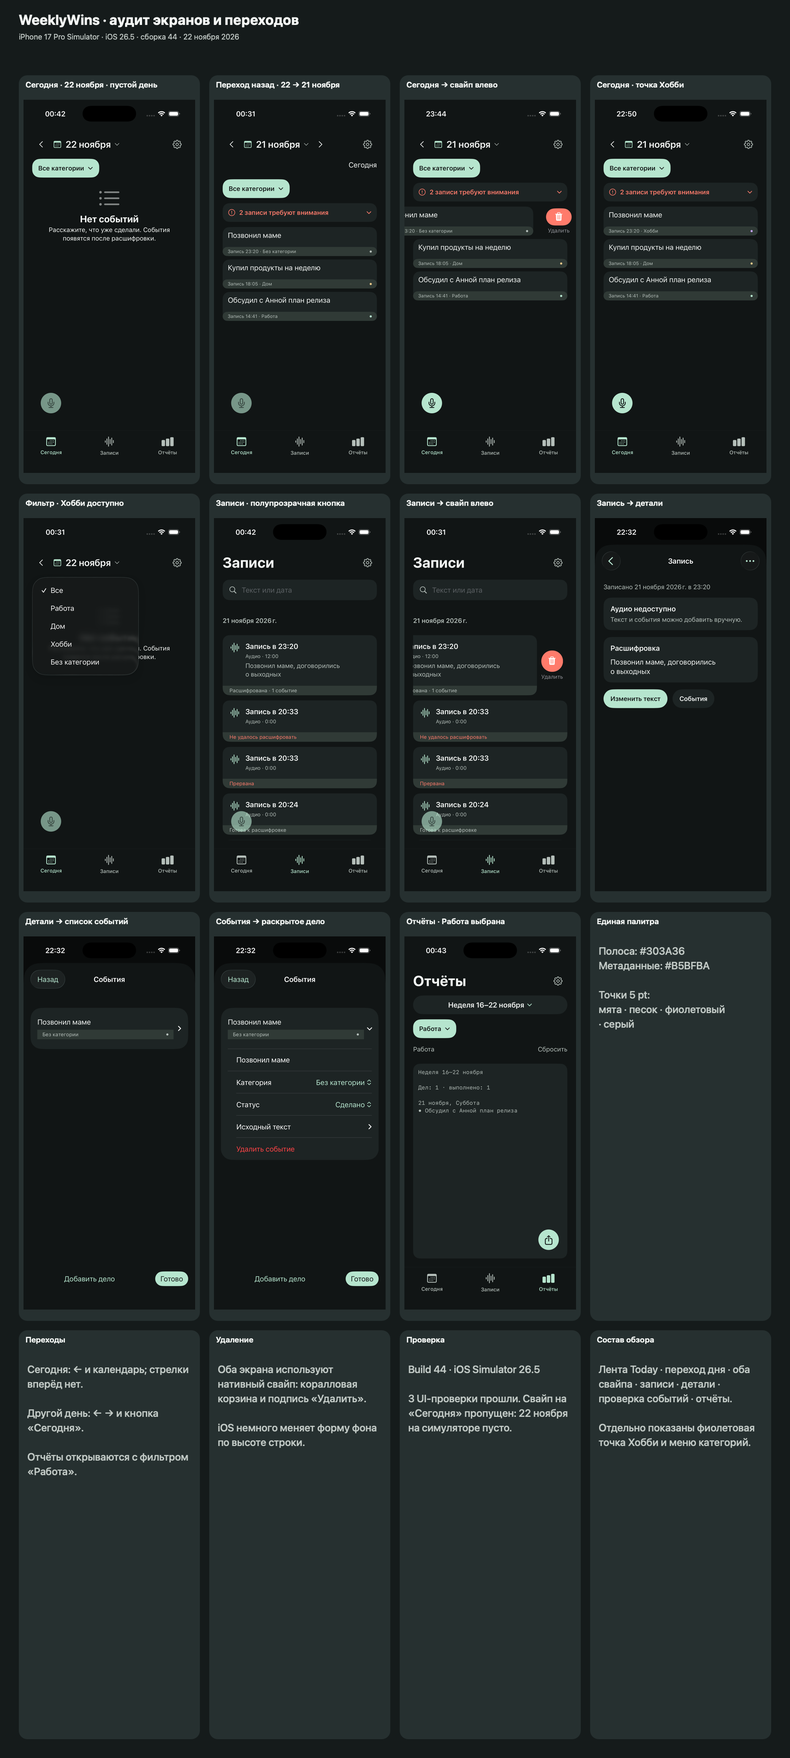
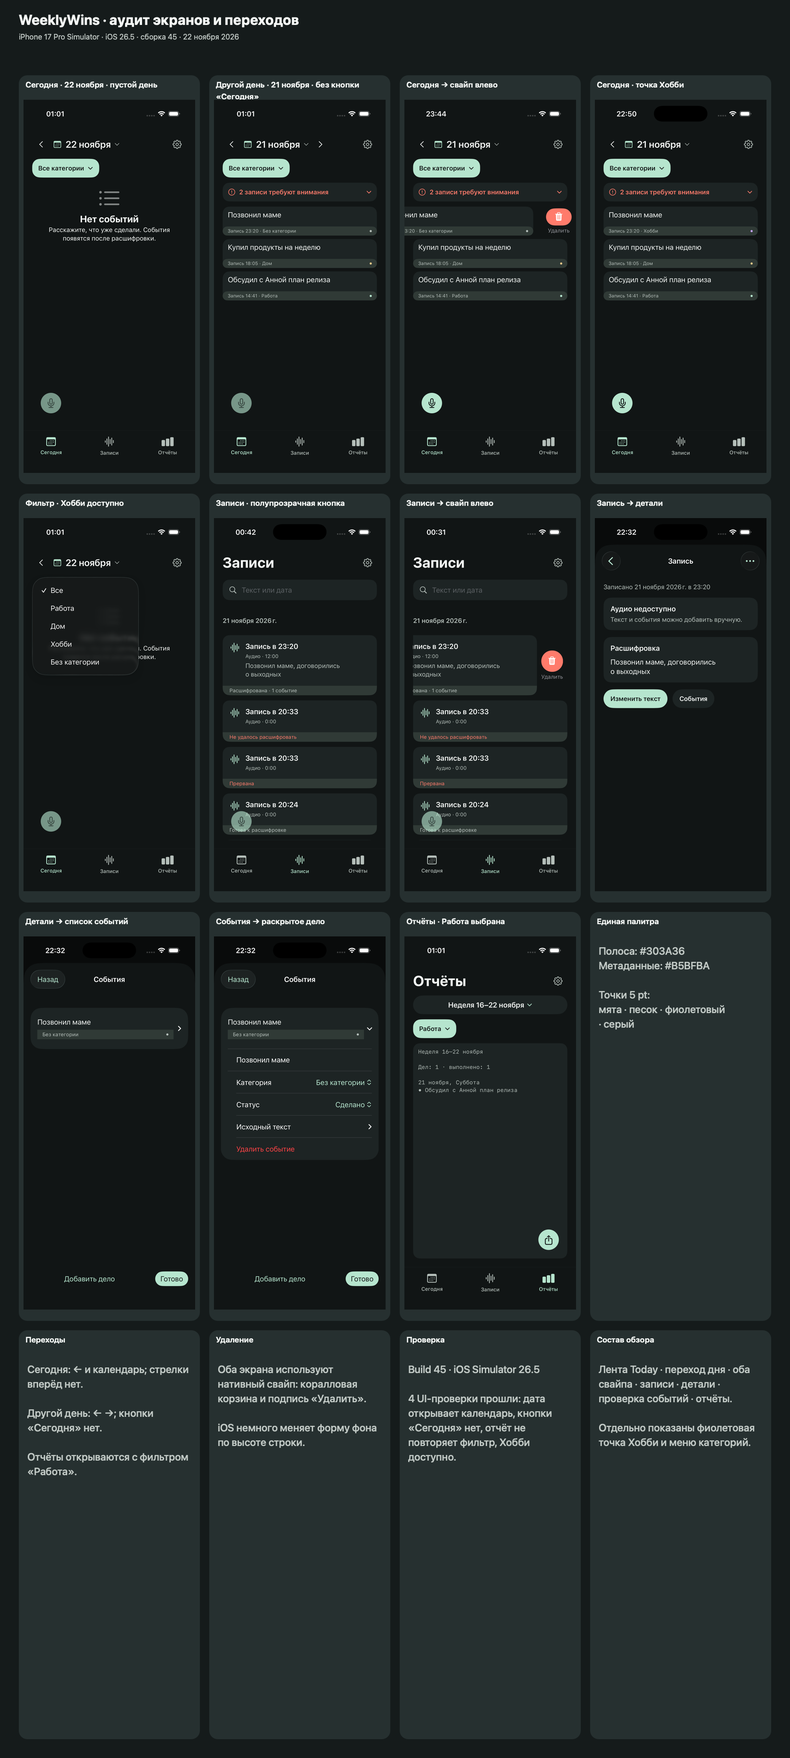
fix: simplify today and report filters

diff --git a/WeeklyWinsActionButtonUITests/ActionButtonUITests.swift b/WeeklyWinsActionButtonUITests/ActionButtonUITests.swift
@@ -27,10 +27,39 @@ final class ActionButtonUITests: XCTestCase {
         XCTAssertTrue(app.staticTexts[expectedPreviousDate].waitForExistence(timeout: 5), app.debugDescription)
         let settingsDone = app.buttons["Готово"]
         if settingsDone.isHittable { settingsDone.tap() }
+        XCTAssertFalse(app.buttons["return-to-today"].exists, app.debugDescription)
         attach("A03-final-previous-day")
         app.buttons["studio-tab-2"].tap()
         XCTAssertTrue(app.staticTexts["Отчёты"].waitForExistence(timeout: 5))
         attach("A14-final-reports-work-filter")
+    }
+
+    @MainActor
+    func testTodayDateOpensDatePickerInsteadOfSettings() throws {
+        continueAfterFailure = false
+        let app = XCUIApplication(bundleIdentifier: "com.weeklywins.app")
+        app.launch()
+
+        let dayPicker = app.buttons["Выбрать день"]
+        XCTAssertTrue(dayPicker.waitForExistence(timeout: 5), app.debugDescription)
+        dayPicker.tap()
+
+        XCTAssertTrue(app.staticTexts["Выбор даты"].waitForExistence(timeout: 5), app.debugDescription)
+        XCTAssertFalse(app.staticTexts["Настройки"].exists, app.debugDescription)
+    }
+
+    @MainActor
+    func testReportsDoNotRepeatSelectedCategoryBelowFilter() throws {
+        continueAfterFailure = false
+        let app = XCUIApplication(bundleIdentifier: "com.weeklywins.app")
+        app.launch()
+        app.buttons["studio-tab-2"].tap()
+
+        let category = app.buttons["Категория"]
+        XCTAssertTrue(category.waitForExistence(timeout: 5), app.debugDescription)
+        XCTAssertEqual(category.value as? String, "Работа", app.debugDescription)
+        XCTAssertFalse(app.buttons["reset-category-filter"].exists, app.debugDescription)
+        XCTAssertFalse(app.otherElements["selected-category-summary"].exists, app.debugDescription)
     }
 
     @MainActor
@@ -286,7 +315,7 @@ final class ActionButtonUITests: XCTestCase {
         XCTAssertTrue(app.staticTexts["Нет дел в этой категории"].waitForExistence(timeout: 5))
         app.buttons["reset-category-filter"].tap()
         XCTAssertTrue(app.staticTexts["В этот день нет событий"].waitForExistence(timeout: 5))
-        app.buttons["return-to-today"].tap()
+        app.buttons[offset < 0 ? "Следующий день" : "Предыдущий день"].tap()
         app.buttons["Открыть аудио: Подготовил отчёт"].tap()
         XCTAssertTrue(app.buttons["Прослушать"].waitForExistence(timeout: 5))
         app.buttons["recording-details-back"].tap()
@@ -1060,7 +1089,7 @@ final class ActionButtonUITests: XCTestCase {
         XCTAssertEqual(datePicker.value as? String, selectedLabel)
         let card = app.buttons.matching(NSPredicate(format: "label BEGINSWITH %@", title)).firstMatch
         XCTAssertFalse(card.exists)
-        app.buttons["return-to-today"].tap()
+        inward.tap()
         XCTAssertEqual(datePicker.value as? String, todayLabel)
         for _ in 0..<32 {
             if card.exists { break }

diff --git a/WeeklyWins/Reports/ReportView.swift b/WeeklyWins/Reports/ReportView.swift
@@ -127,7 +127,7 @@ struct ReportView: View {
             }
             periodMenu
             if choice == .custom { customRangePickers }
-            CategoryFilter(category: $category, compact: true)
+            CategoryFilter(category: $category, compact: true, showsSelectedCategorySummary: false)
             if items.isEmpty {
                 ContentUnavailableView("За этот период нет событий", systemImage: "chart.bar")
                     .frame(maxWidth: .infinity, maxHeight: .infinity)
@@ -353,17 +353,6 @@ struct ReportView: View {
                 }
                 Spacer(minLength: 0)
                 SettingsButton()
-            }
-            if !Calendar.current.isDateInToday(date) {
-                HStack {
-                    Spacer(minLength: 0)
-                    Button("Сегодня") {
-                        followsToday = true
-                        date = .now
-                    }
-                    .frame(minHeight: 44)
-                    .accessibilityIdentifier("return-to-today")
-                }
             }
         }
     }

diff --git a/WeeklyWins/Design/StudioTheme.swift b/WeeklyWins/Design/StudioTheme.swift
@@ -25,6 +25,7 @@ enum StudioTheme {
 struct CategoryFilter: View {
     @Binding var category: EventCategory?
     var compact = false
+    var showsSelectedCategorySummary = true
     private let categories: [EventCategory] = [.work, .home, .hobby, .unclassified]
 
     var body: some View {
@@ -40,7 +41,7 @@ struct CategoryFilter: View {
                     pills(spacing: 10, padding: 22)
                 }
             }
-            if let category {
+            if showsSelectedCategorySummary, let category {
                 HStack {
                     Text(category.title)
                         .accessibilityAddTraits(.isHeader)
@@ -51,6 +52,7 @@ struct CategoryFilter: View {
                 }
                 .font(.subheadline)
                 .foregroundStyle(StudioTheme.secondary)
+                .accessibilityIdentifier("selected-category-summary")
             }
         }
     }

diff --git a/docs/design/approved-design.md b/docs/design/approved-design.md
@@ -8,6 +8,8 @@
 21 ноября 2026 года пользователь утвердил единую нейтральную полосу с тихой точкой 5 pt справа для категории и единый вид удаления на ленте и в списке записей. На текущей дате стрелка вперёд скрыта.
 21 ноября 2026 года добавлена категория «Хобби» с мягким фиолетовым цветом `#C5A3FF`, отличным от категорий «Работа», «Дом», «Без категории» и кораллового статуса записи.
 22 ноября 2026 года пользователь уточнил вид кнопки записи: сохранить её плавающей на прежнем месте, сделать слегка прозрачной и не перекрывающей чтение текста под ней.
+22 ноября 2026 года кнопка «Сегодня» удалена с ленты, выбор даты проверен на открытие календаря, а подпись категории и «Сбросить» скрыты под фильтром отчётов.
+22 ноября 2026 года пользователь попросил убрать кнопку «Сегодня» с ленты, исправить выбор даты и убрать повтор подписи и сброса выбранной категории из отчётов.
 
 ## Источники реализации
 
@@ -20,13 +22,13 @@
 
 ### Сегодня и другой день
 
-- **Компактная дата.** В шапке календарь и стрелка предыдущего дня находятся слева от выбранной даты, стрелка следующего дня — справа от даты; затем справа настройки. На текущем дне стрелка вперёд скрыта. Дата открывает календарь и имеет область нажатия высотой не менее 44 pt. Название «Сегодня» видно на выбранной вкладке. На другом дне доступны обе стрелки и кнопка возврата к сегодняшней дате по A03.
+- **Компактная дата.** В шапке календарь и стрелка предыдущего дня находятся слева от выбранной даты, стрелка следующего дня — справа от даты; затем справа настройки. На текущем дне стрелка вперёд скрыта. Нажатие на дату открывает календарь и имеет область нажатия высотой не менее 44 pt. Название «Сегодня» видно на выбранной вкладке. Кнопки «Сегодня» в ленте нет; на другом дне доступны обе стрелки, переход вперёд возвращает к текущей дате.
 - **Текст внутри карточки.** Карточка занимает ширину ленты. Название набрано обычным начертанием. Под ним вторичная строка со временем записи и категорией, например «Запись 09:10 · Работа». Время дела и длительность не хранятся и не показываются. Вторичная строка мельче названия, масштабируется с системным текстом и может переноситься. У карточки есть отдельное действие открытия аудиоисточника.
 - **Цвет категории в карточке.** Строка метаданных находится на общей нейтральной плашке высотой около 21 pt; подпись метаданных использует вторичный текст. Справа на плашке стоит тихая точка 5 pt в цвете категории: мята для работы, песок для дома, фиолетовый для хобби, серый для дел без категории. Правая кнопка открытия аудио удалена; нажатие карточки открывает детали, где доступен аудиоисточник. Название категории остаётся в тексте.
 - **Карточки записей.** На экране «Записи» статус аудио находится на такой же нейтральной полосе снизу. Свайп влево показывает нативное деструктивное действие с корзиной и подписью «Удалить»; нажатие удаляет аудио, расшифровку и связанные события сразу.
 - **Удаление дела.** Свайп влево показывает такое же нативное деструктивное действие с корзиной и подписью «Удалить», как на экране «Записи». Нажатие удаляет дело из ленты и отчётов. Аудиоисточник остаётся доступен в деталях. Свайп вправо закрывает действие, а «Отменить удаление» возвращает дела по одному, начиная с последнего удаления.
 - **Ручной запуск записи.** Круглая мятная кнопка с микрофоном размером 48 × 48 pt закреплена слева поверх ленты и списка записей. Кнопка слегка прозрачная, чтобы не мешать читать расположенный под ней текст; при включённом «Уменьшении прозрачности» фон непрозрачный. Положение и высота области списка не меняются. Отступы от левого края и от верхней границы панели вкладок равны 20 pt. Подпись для VoiceOver — «Записать».
-- **Состояние при прокрутке.** Пока список движется, кнопка остаётся на месте, а фон круга становится полупрозрачным. Значок остаётся различимым, под кнопкой видно содержание карточки. Когда прокрутка останавливается, кнопка возвращается к непрозрачному состоянию примерно через 0,28 с. При активной записи действует компактная панель с таймером и остановкой.
+- **Состояние при прокрутке.** Кнопка остаётся плавающей на прежнем месте, её круг и значок слегка прозрачны, чтобы не затруднять чтение содержимого под ними. Пока список движется, фон становится ещё прозрачнее. При включённом «Уменьшении прозрачности» кнопка непрозрачная. При активной записи действует компактная панель с таймером и остановкой.
 
 ### Запись
 

diff --git a/docs/design/layout-options.md b/docs/design/layout-options.md
@@ -60,9 +60,9 @@
 | A10. Проверка событий | Список компактных предложений событий, у каждого видны текст и категория на общей нейтральной полосе. Справа полосы стоит тихая точка категории, как в ленте. Нажатие раскрывает редактор. Внизу «Добавить дело» и «Готово». Объединение доступно через выбор двух соседних событий. |
 | A11. Карточка события | Сверху текст дела и категория. Ниже время записи. Затем исходный фрагмент и ссылка на аудио. Действие «Изменить» открывает форму. |
 | A12. Редактор события | Сначала текст дела, затем категория и статус выполнения. Внизу «Сохранить», в меню — удалить. Клавиатура не перекрывает сохранение. |
-| A13. Отчёт за день | Вверху переключатель «День / Неделя / Месяц», ниже дата со стрелками. По умолчанию включён фильтр «Работа». Затем количество дел и выполненных. Ниже список событий. |
-| A14. Отчёт за неделю | Сохраняет расположение A13. По умолчанию выбран фильтр «Работа». Вместо даты — диапазон недели. После сводки расположен график по семи дням. Нажатие столбца открывает выбранный дневной отчёт. |
-| A15. Отчёт за месяц | Сохраняет расположение A13. В заголовке месяц и год. График по дням месяца прокручивается, либо отображается компактный календарь. Нажатие дня открывает дневной отчёт. |
+| A13. Отчёт за день | Вверху переключатель «День / Неделя / Месяц», ниже дата со стрелками. По умолчанию включён фильтр «Работа». Выбранная категория видна только в меню фильтра, без повторной подписи и отдельного «Сбросить». Затем количество дел и выполненных. Ниже список событий. |
+| A14. Отчёт за неделю | Сохраняет расположение A13. По умолчанию выбран фильтр «Работа». Вместо даты — диапазон недели. Выбранная категория остаётся только в меню фильтра. После сводки расположен график по семи дням. Нажатие столбца открывает выбранный дневной отчёт. |
+| A15. Отчёт за месяц | Сохраняет расположение A13. В заголовке месяц и год. График по дням месяца прокручивается либо отображается компактный календарь. Нажатие дня открывает дневной отчёт. |
 | A16. Выбор даты и фильтров | Календарь открывается нижней панелью. Категории переключаются на текущем экране и видны в заголовке списка. «Сбросить» возвращает полный список выбранного периода. |
 | A17. Объединение событий | Нижняя панель показывает два исходных текста и итоговое редактируемое поле. Категория и статус подтверждаются пользователем. Внизу «Объединить», сверху закрытие. |
 | A18. Настройки | Список «Микрофон», «Офлайн-распознавание», «Кнопка действия», «Версия и сборка». Настройка кнопки содержит пошаговую инструкцию и проверочный запуск. Доступы ведут в системные настройки при отказе. |
